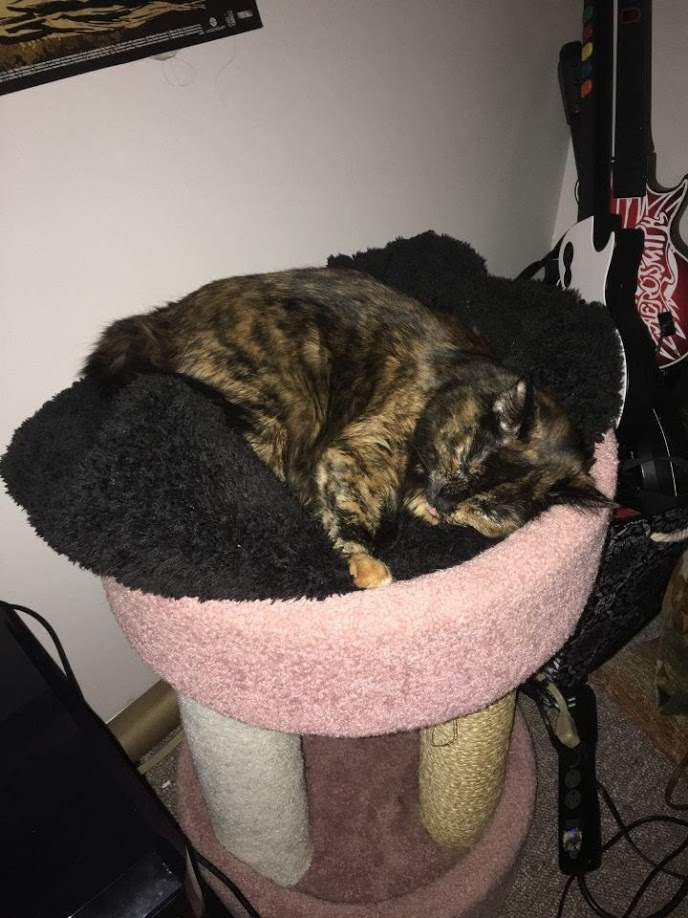
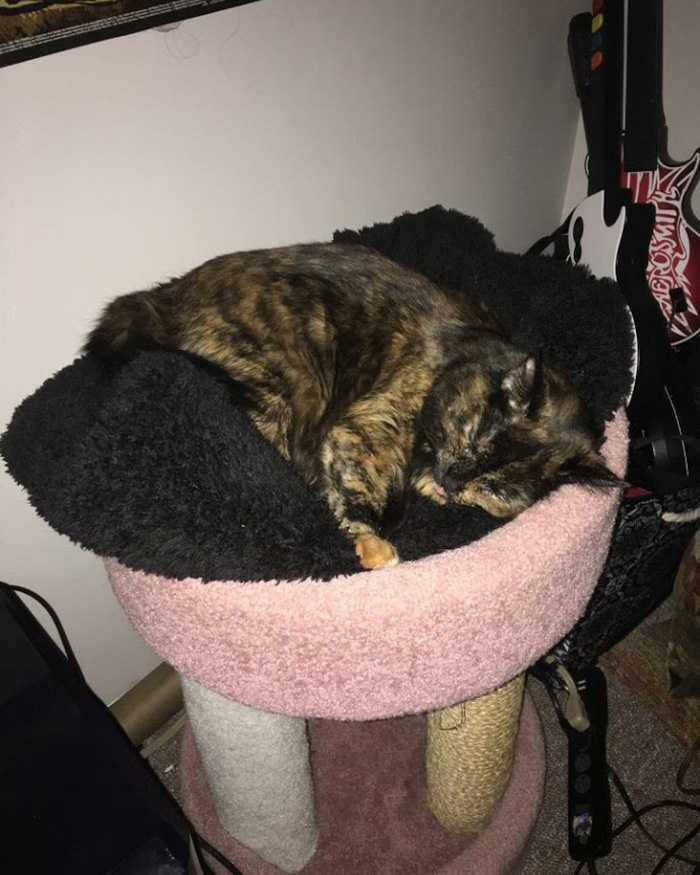
resized imgs to same size; finished med memories view

diff --git a/RosalitaPortfolio/memories.html b/RosalitaPortfolio/memories.html
@@ -42,7 +42,7 @@
     </nav>
   
 
-    <!-- Main Content of Homepage -->
+    <!-- Main Content of Memories Page -->
     <article class="main-memories">
       <p class="sub">Here are some of Rosalita's favorite memories!</p>
       <p class="psst">[Psst... hover over the images for more information]</p>
@@ -55,7 +55,7 @@
       <img class="blep" src="imgs/blep1.jpg" alt="Rosalita sleeping and blepping">
       <img class="belly" src="imgs/bellyup.jpg" alt="Rosalita wants to play!">
       
-      <p>Check back in for more memories in the future!</p>
+      <p class="checkback">Check back in for more memories in the future!</p>
 
     </article>
     

diff --git a/RosalitaPortfolio/css/responsive.css b/RosalitaPortfolio/css/responsive.css
@@ -29,7 +29,6 @@
 
 	/*about page*/
 
-
 	.main-about{
 		display: grid;
 		grid-template-columns: auto auto auto auto;
@@ -88,6 +87,27 @@
 	.main-about p{
 		font-size: 1em;
 		text-align: left;
+	}
+
+	/*memories page*/
+	
+	.main-memories{
+		display: grid;
+		grid-template-columns: auto auto;
+		/*grid-template-rows: auto auto auto auto auto auto;*/
+		grid-column-gap: 30px;
+		grid-row-gap: 20px;
+	}
+	
+
+	.checkback{
+		grid-column: 1/span 2;
+	}
+
+	.main-memories img{
+		width: 100%;
+		padding:0;
+		
 	}
 
 
